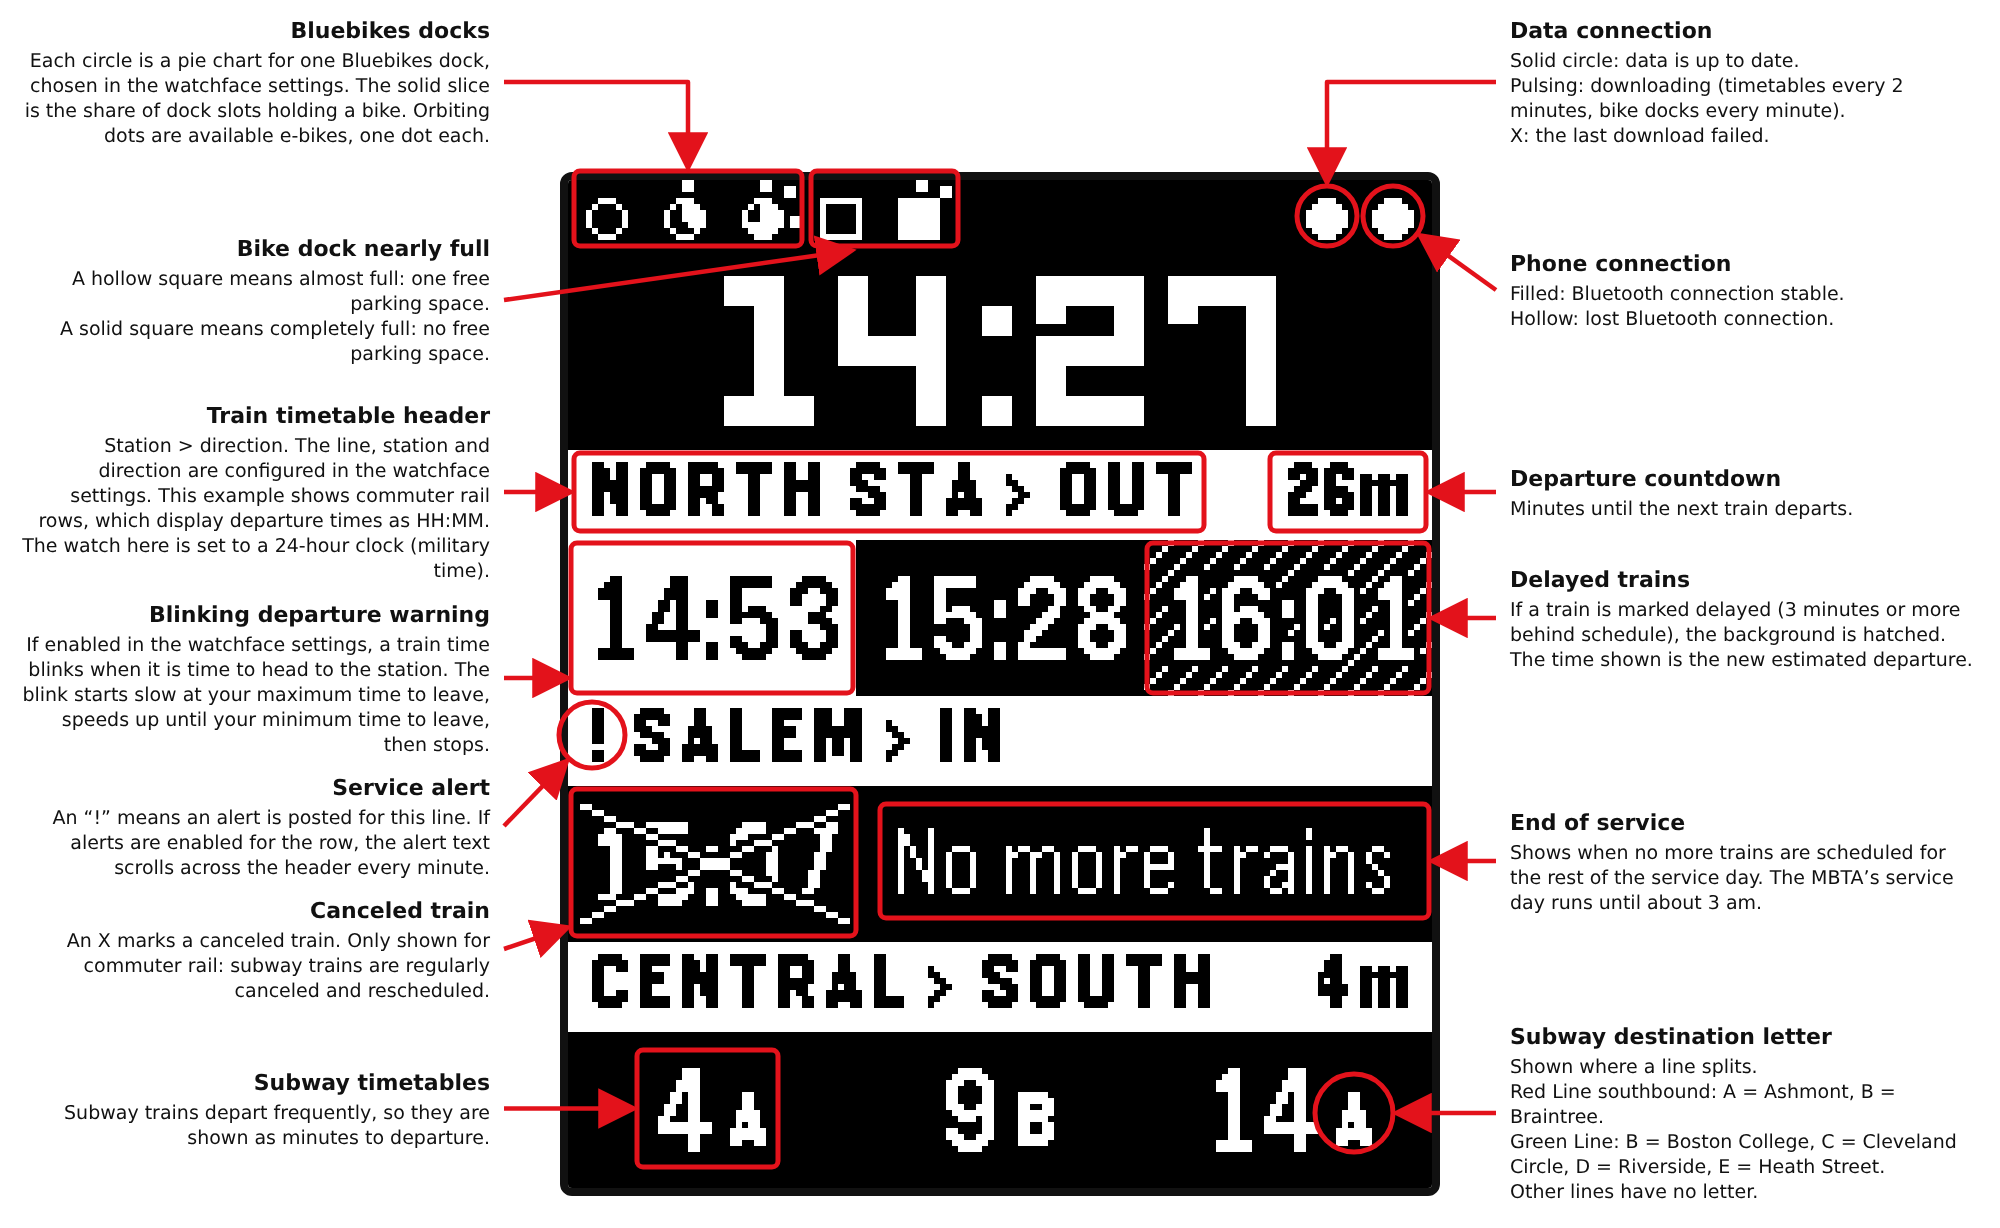
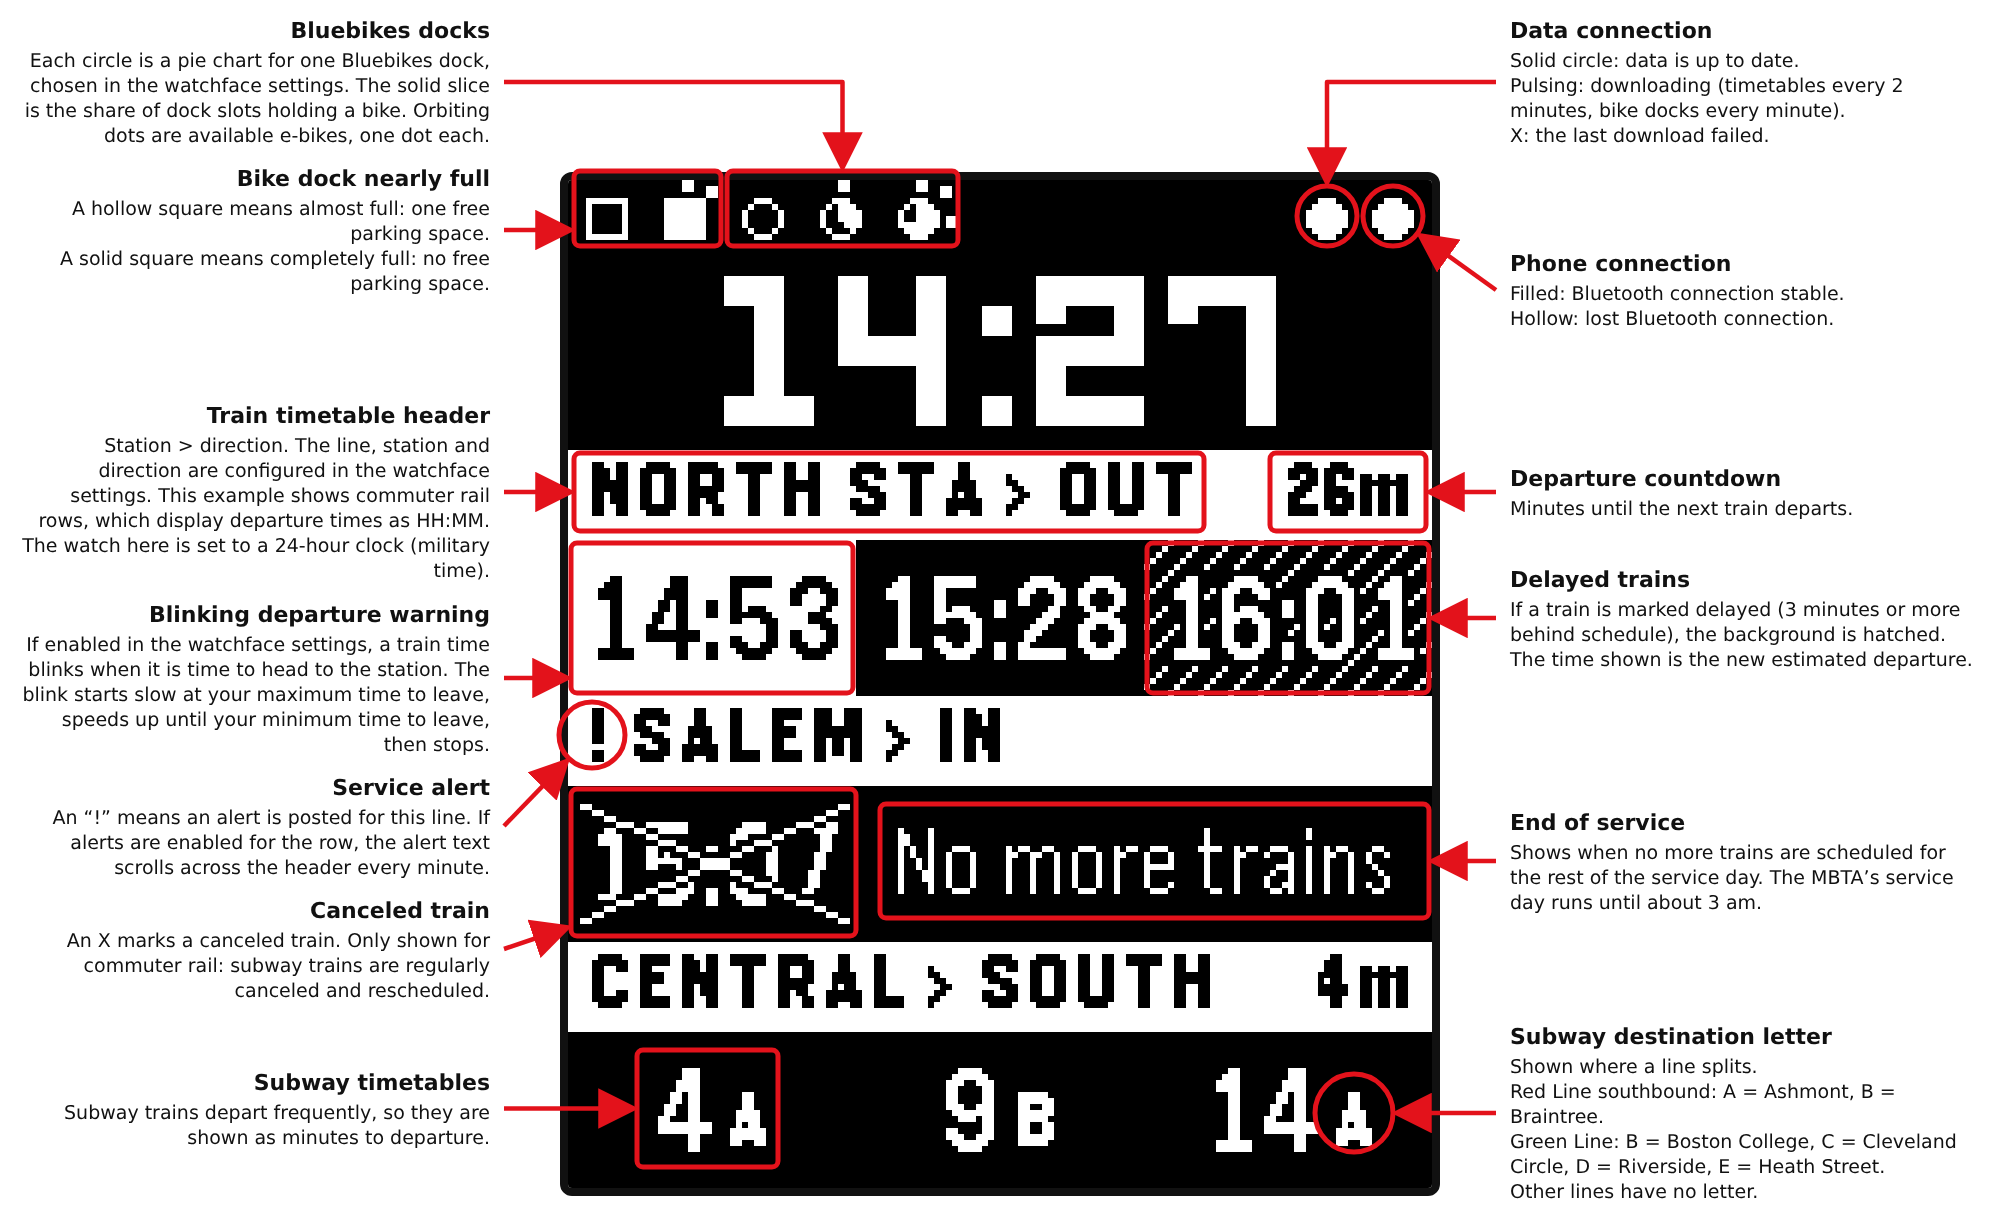
Watch guide: show the nearly full docks first so their callout points straight across
Claude-Session: https://claude.ai/code/session_018kUttcRWv8pxFU9anVHVt8

Changed region(s): [[0.031, 0.0619, 0.465, 0.3094]]

diff --git a/docs/watch-guide.html b/docs/watch-guide.html
@@ -18,8 +18,8 @@ function px(x){return X0+x*K} function py(y){return Y0+y*K}
 // top: the arrow runs across the top margin and drops onto the target.
 // at: [x,y] watch pixel the arrow should end at instead of the nearest edge.
 var items=[
- {side:'l',top:1,title:'Bluebikes docks',body:'Each circle is a pie chart for one Bluebikes dock, chosen in the watchface settings. The solid slice is the share of dock slots holding a bike. Orbiting dots are available e-bikes, one dot each.',box:[1,-1.5,39,11]},
- {side:'l',title:'Bike dock nearly full',body:'A hollow square means almost full: one free parking space.<br>A solid square means completely full: no free parking space.',box:[40.5,-1.5,65,11],at:[47,11.8],ty:300},
+ {side:'l',top:1,title:'Bluebikes docks',body:'Each circle is a pie chart for one Bluebikes dock, chosen in the watchface settings. The solid slice is the share of dock slots holding a bike. Orbiting dots are available e-bikes, one dot each.',box:[26.5,-1.5,65,11]},
+ {side:'l',title:'Bike dock nearly full',body:'A hollow square means almost full: one free parking space.<br>A solid square means completely full: no free parking space.',box:[1,-1.5,25.5,11],ty:215},
  {side:'l',title:'Train timetable header',body:'Station &gt; direction. The line, station and direction are configured in the watchface settings. This example shows commuter rail rows, which display departure times as HH:MM. The watch here is set to a 24-hour clock (military time).',box:[1,45.5,106,58.5]},
  {side:'l',title:'Blinking departure warning',body:'If enabled in the watchface settings, a train time blinks when it is time to head to the station. The blink starts slow at your maximum time to leave, speeds up until your minimum time to leave, then stops.',box:[0.5,60.5,47.5,85.5]},
  {side:'l',title:'Service alert',body:'An “!” means an alert is posted for this line. If alerts are enabled for the row, the alert text scrolls across the header every minute.',circ:[4,92.5,5.5]},
